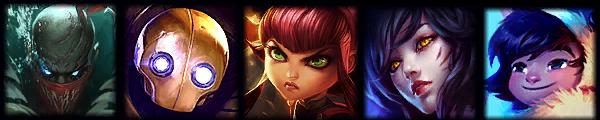
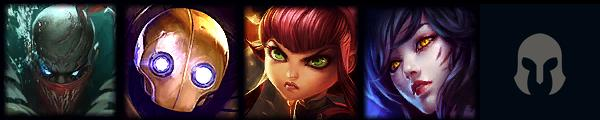
smal fix

Changed region(s): [[0.78, 0.05, 1.0, 1.0]]

diff --git a/modules/image_transformation.py b/modules/image_transformation.py
@@ -14,7 +14,6 @@ def get_files(champs):
             files.append(f'./{config["FOLDER_CHAMP_ICON"]}/{champ}.png')
         else:
             files.append(f'./{config["FOLDER_CHAMP_ICON"]}/-1.png')
-        
     return files
 
 def create_new_image(champs):
@@ -37,6 +36,7 @@ def testModule():
     assert(config["TOGGLE_AUTO_DELETE"] == True)
     assert(len(get_files(['Pyke', 'Blitzcrank', 'Annie', 'Ahri', 'Nautilus'])) == 5)
     assert(create_new_image(['Pyke', 'Blitzcrank', 'Annie', 'Ahri', 'Nunu']) == 0)
+    assert(create_new_image(['Pyke', 'Blitzcrank', 'Annie', 'Ahri', 'Pingu']) == 0)
 
 #testModule()
 # === TEST END === #
